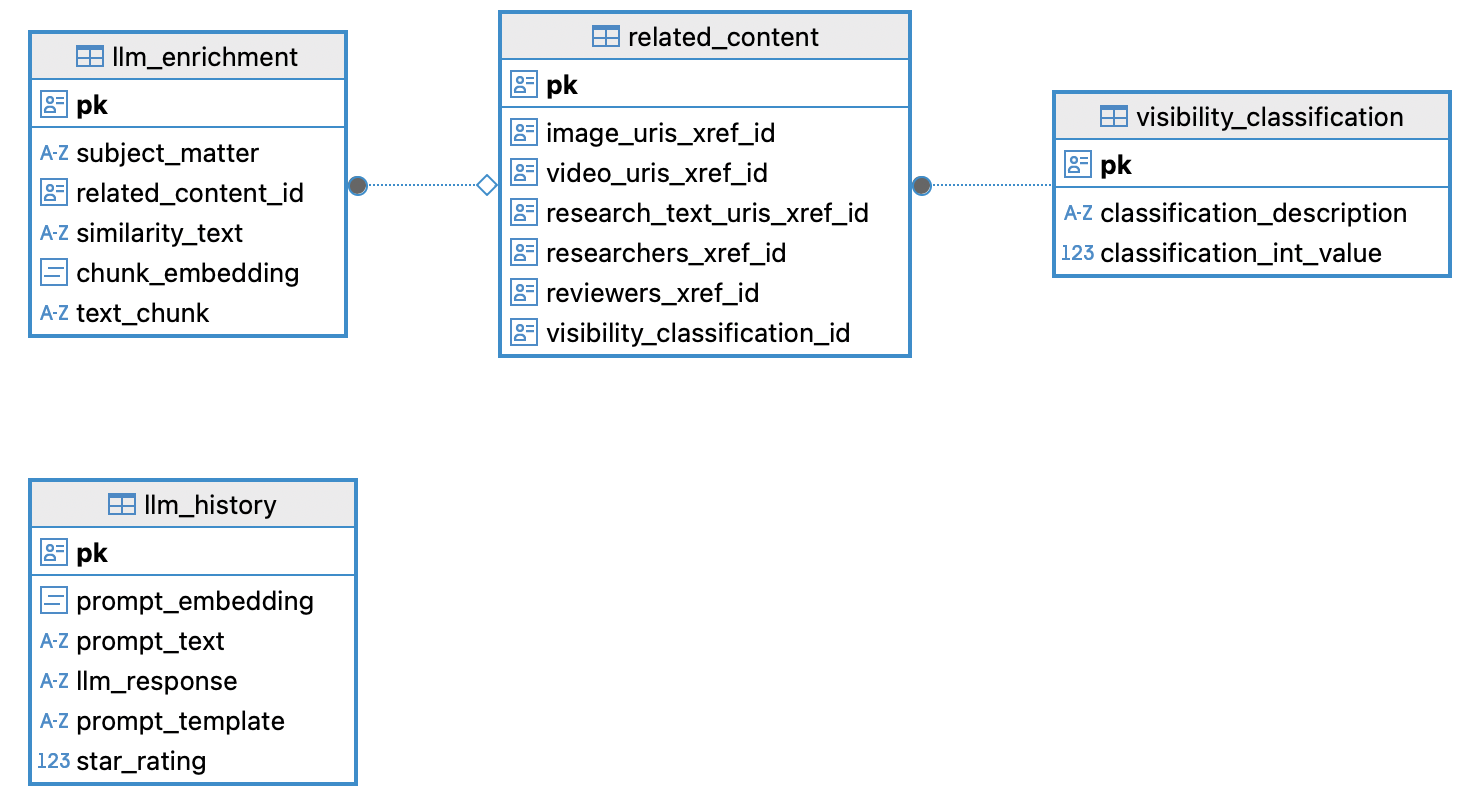
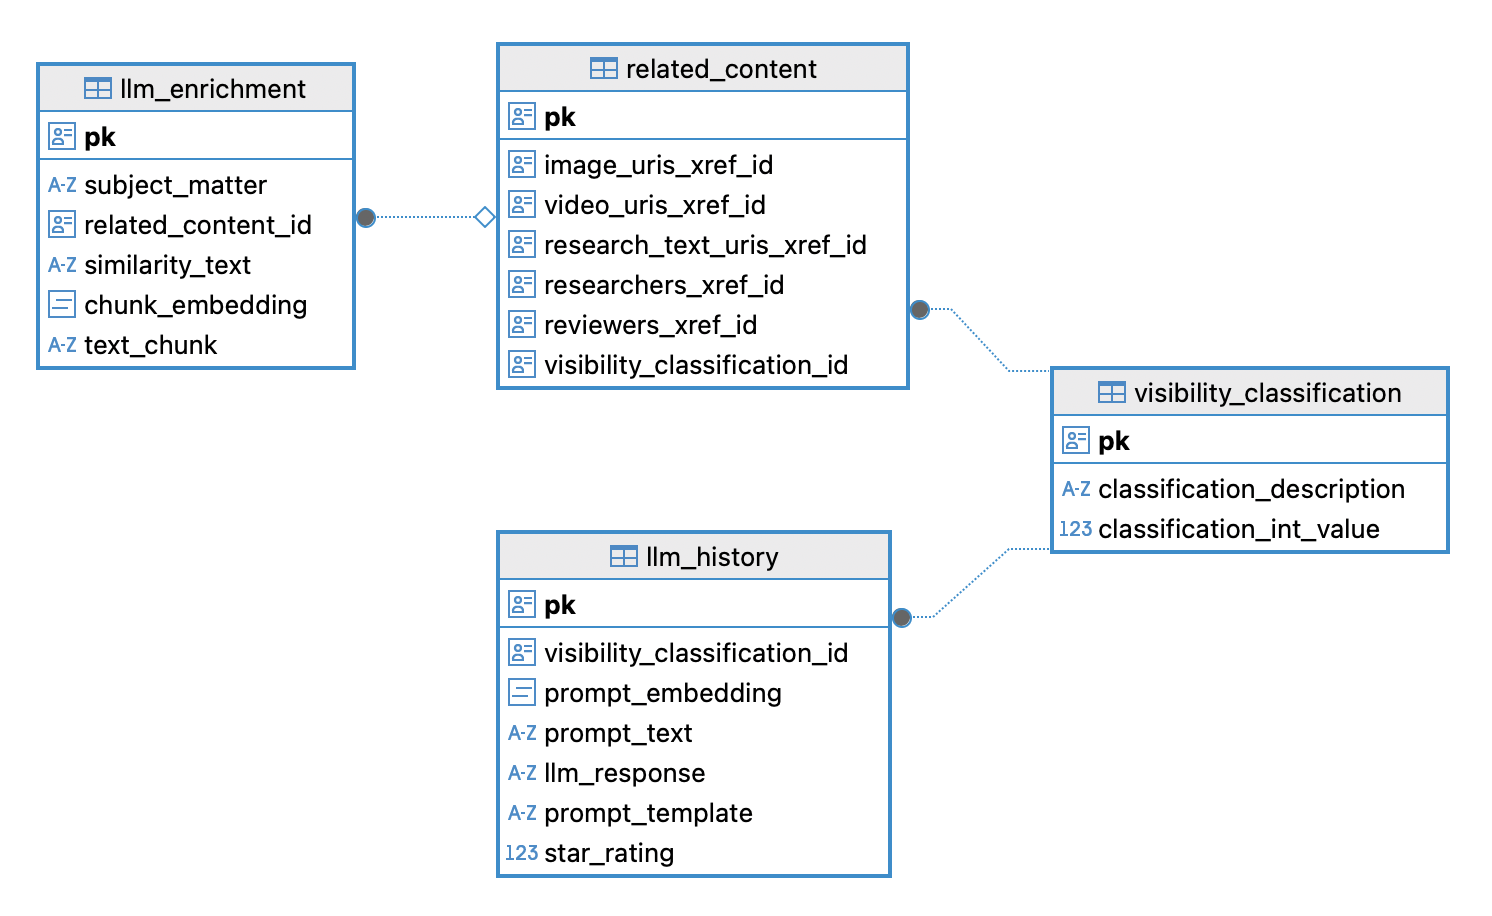
added (for now hard-coded as public) visibility classification to the semantic cache example llm_history table

diff --git a/project_utils.py b/project_utils.py
@@ -71,13 +71,15 @@ def update_star_rating(new_rating,pk):
 
         
 def insert_llm_prompt_response(prompt_embedding,prompt_text,llm_response_text,prompt_template):
+    print('Hi from insert_llm_prompt_response...')
     if isinstance(prompt_text, list):
         prompt_text = ' '.join(str(x) for x in prompt_text)
     llm_response_text = llm_response_text.strip()
     new_pk=None
-    query = f'''INSERT INTO vdb.llm_history 
-        (prompt_embedding, prompt_text, llm_response, star_rating, prompt_template)
-        VALUES ('{prompt_embedding}', %s, %s, 3, %s) returning pk;'''
+    query = f''' 
+    INSERT INTO vdb.llm_history 
+        (prompt_embedding,visibility_classification_id, prompt_text, llm_response, star_rating, prompt_template)
+        VALUES ('{prompt_embedding}', (SELECT pk FROM vdb.visibility_classification WHERE classification_description = 'public'), %s, %s, 3, %s) returning pk;'''
     args = (prompt_text, llm_response_text, prompt_template)
     try:
         with get_connection() as conn:
@@ -86,6 +88,7 @@ def insert_llm_prompt_response(prompt_embedding,prompt_text,llm_response_text,pr
                 new_pk = cur.fetchone()[0] 
     except Exception as e:
         print(f"❌ Error during SQL INSERT processing: {e}")
+    print(f'new pk for inserted row in llm_history is {new_pk}')
     return new_pk
 
 # the query checks for stored/prior request|response pairs
@@ -102,6 +105,9 @@ def query_using_vector_similarity(incoming_prompt_vector,star_rating_filter,prom
     oldQuery=f'''WITH target_vector AS (
         SELECT '{incoming_prompt_vector}'::vector AS ipv
     )
+    WITH visibility AS 
+    (SELECT pk AS VB_PK FROM visibility_classification 
+    WHERE classification_description = 'public')
     SELECT pk,
     llm_response,
     star_rating,
@@ -109,9 +115,10 @@ def query_using_vector_similarity(incoming_prompt_vector,star_rating_filter,prom
         GREATEST(0, LEAST(1, 1 - cosine_distance(prompt_embedding, ipv))) * 100,
         2
     ) AS "Percent Match"
-    FROM llm_history, target_vector
+    FROM llm_history, target_vector, visibility
     WHERE star_rating >= %s
     AND prompt_template = %s
+    AND VB_PK = visibility_classification_id
     AND ROUND(
         GREATEST(0, LEAST(1, 1 - cosine_distance(prompt_embedding, ipv))) * 100,
         2
@@ -122,7 +129,9 @@ def query_using_vector_similarity(incoming_prompt_vector,star_rating_filter,prom
     # query below uses cosine distance operator <=> (only available CRDB >= 25.3)
     query=f'''WITH target_vector AS (
         SELECT '{incoming_prompt_vector}'::vector AS ipv
-    )
+    ),
+    visibility AS (SELECT pk AS VB_PK FROM visibility_classification 
+    WHERE classification_description = 'public')
     SELECT pk,
     llm_response,
     star_rating,
@@ -130,9 +139,10 @@ def query_using_vector_similarity(incoming_prompt_vector,star_rating_filter,prom
         GREATEST(0, LEAST(1, 1 - (prompt_embedding <=> ipv))) * 100,
         2
     ) AS "Percent Match"
-    FROM llm_history, target_vector
+    FROM llm_history, target_vector,visibility
     WHERE star_rating >= %s
     AND prompt_template = %s
+    AND VB_PK = visibility_classification_id
     AND GREATEST(0, LEAST(1, 1 - (prompt_embedding <=> ipv))) * 100 > %s
     ORDER BY "Percent Match" DESC
     LIMIT 2;'''

diff --git a/load_rag_data.py b/load_rag_data.py
@@ -2,6 +2,10 @@
 import json
 from project_utils import *
 
+## TO DELETE OLD ENRICHMENT DATA AND LOAD ONLY WHAT's IN THE ragdata.json file:
+## Use an additional argument when launching this ... example:
+## python3 load_rag_data.py T
+
 # here we create the embeddings and load the data from the json file into the database: 
 def insert_text_chunk(text_embedding,subject_matter,similarity_text,text_chunk):
     if isinstance(subject_matter, list):
@@ -71,8 +75,25 @@ def load_augmentation_text():
         insert_text_chunk(subject_matter=subject_matters[i],similarity_text=similarity_text,text_chunk=llm_info_text,text_embedding=search_embedding)
     return 
 
+def delete_rag_data():
+    print('DELETING EXISTING RAG ENRICHMENT DATA...')
+    query = f'''DELETE FROM vdb.llm_enrichment 
+        WHERE 1=1;'''
+    try:
+        with get_connection() as conn:
+            with conn.cursor() as cur:
+                cur.execute(query)
+    except Exception as e:
+        print(f"❌ DB Error during DELETE llm_enrichment: {e}")
+
 # --- Example usage ---
 if __name__ == "__main__":
+    if(len(sys.argv)>1):
+        #An empty string ("") evaluates to False
+        # any other value evaluates to True
+        delete_old=bool(sys.argv[1])
+        if delete_old==True:
+            delete_rag_data()
     print("\nLOADING RAG DATA FROM ragdata.json into the vdb.llm_enrichment table...")
     load_augmentation_text()
     print("\nDONE!")
